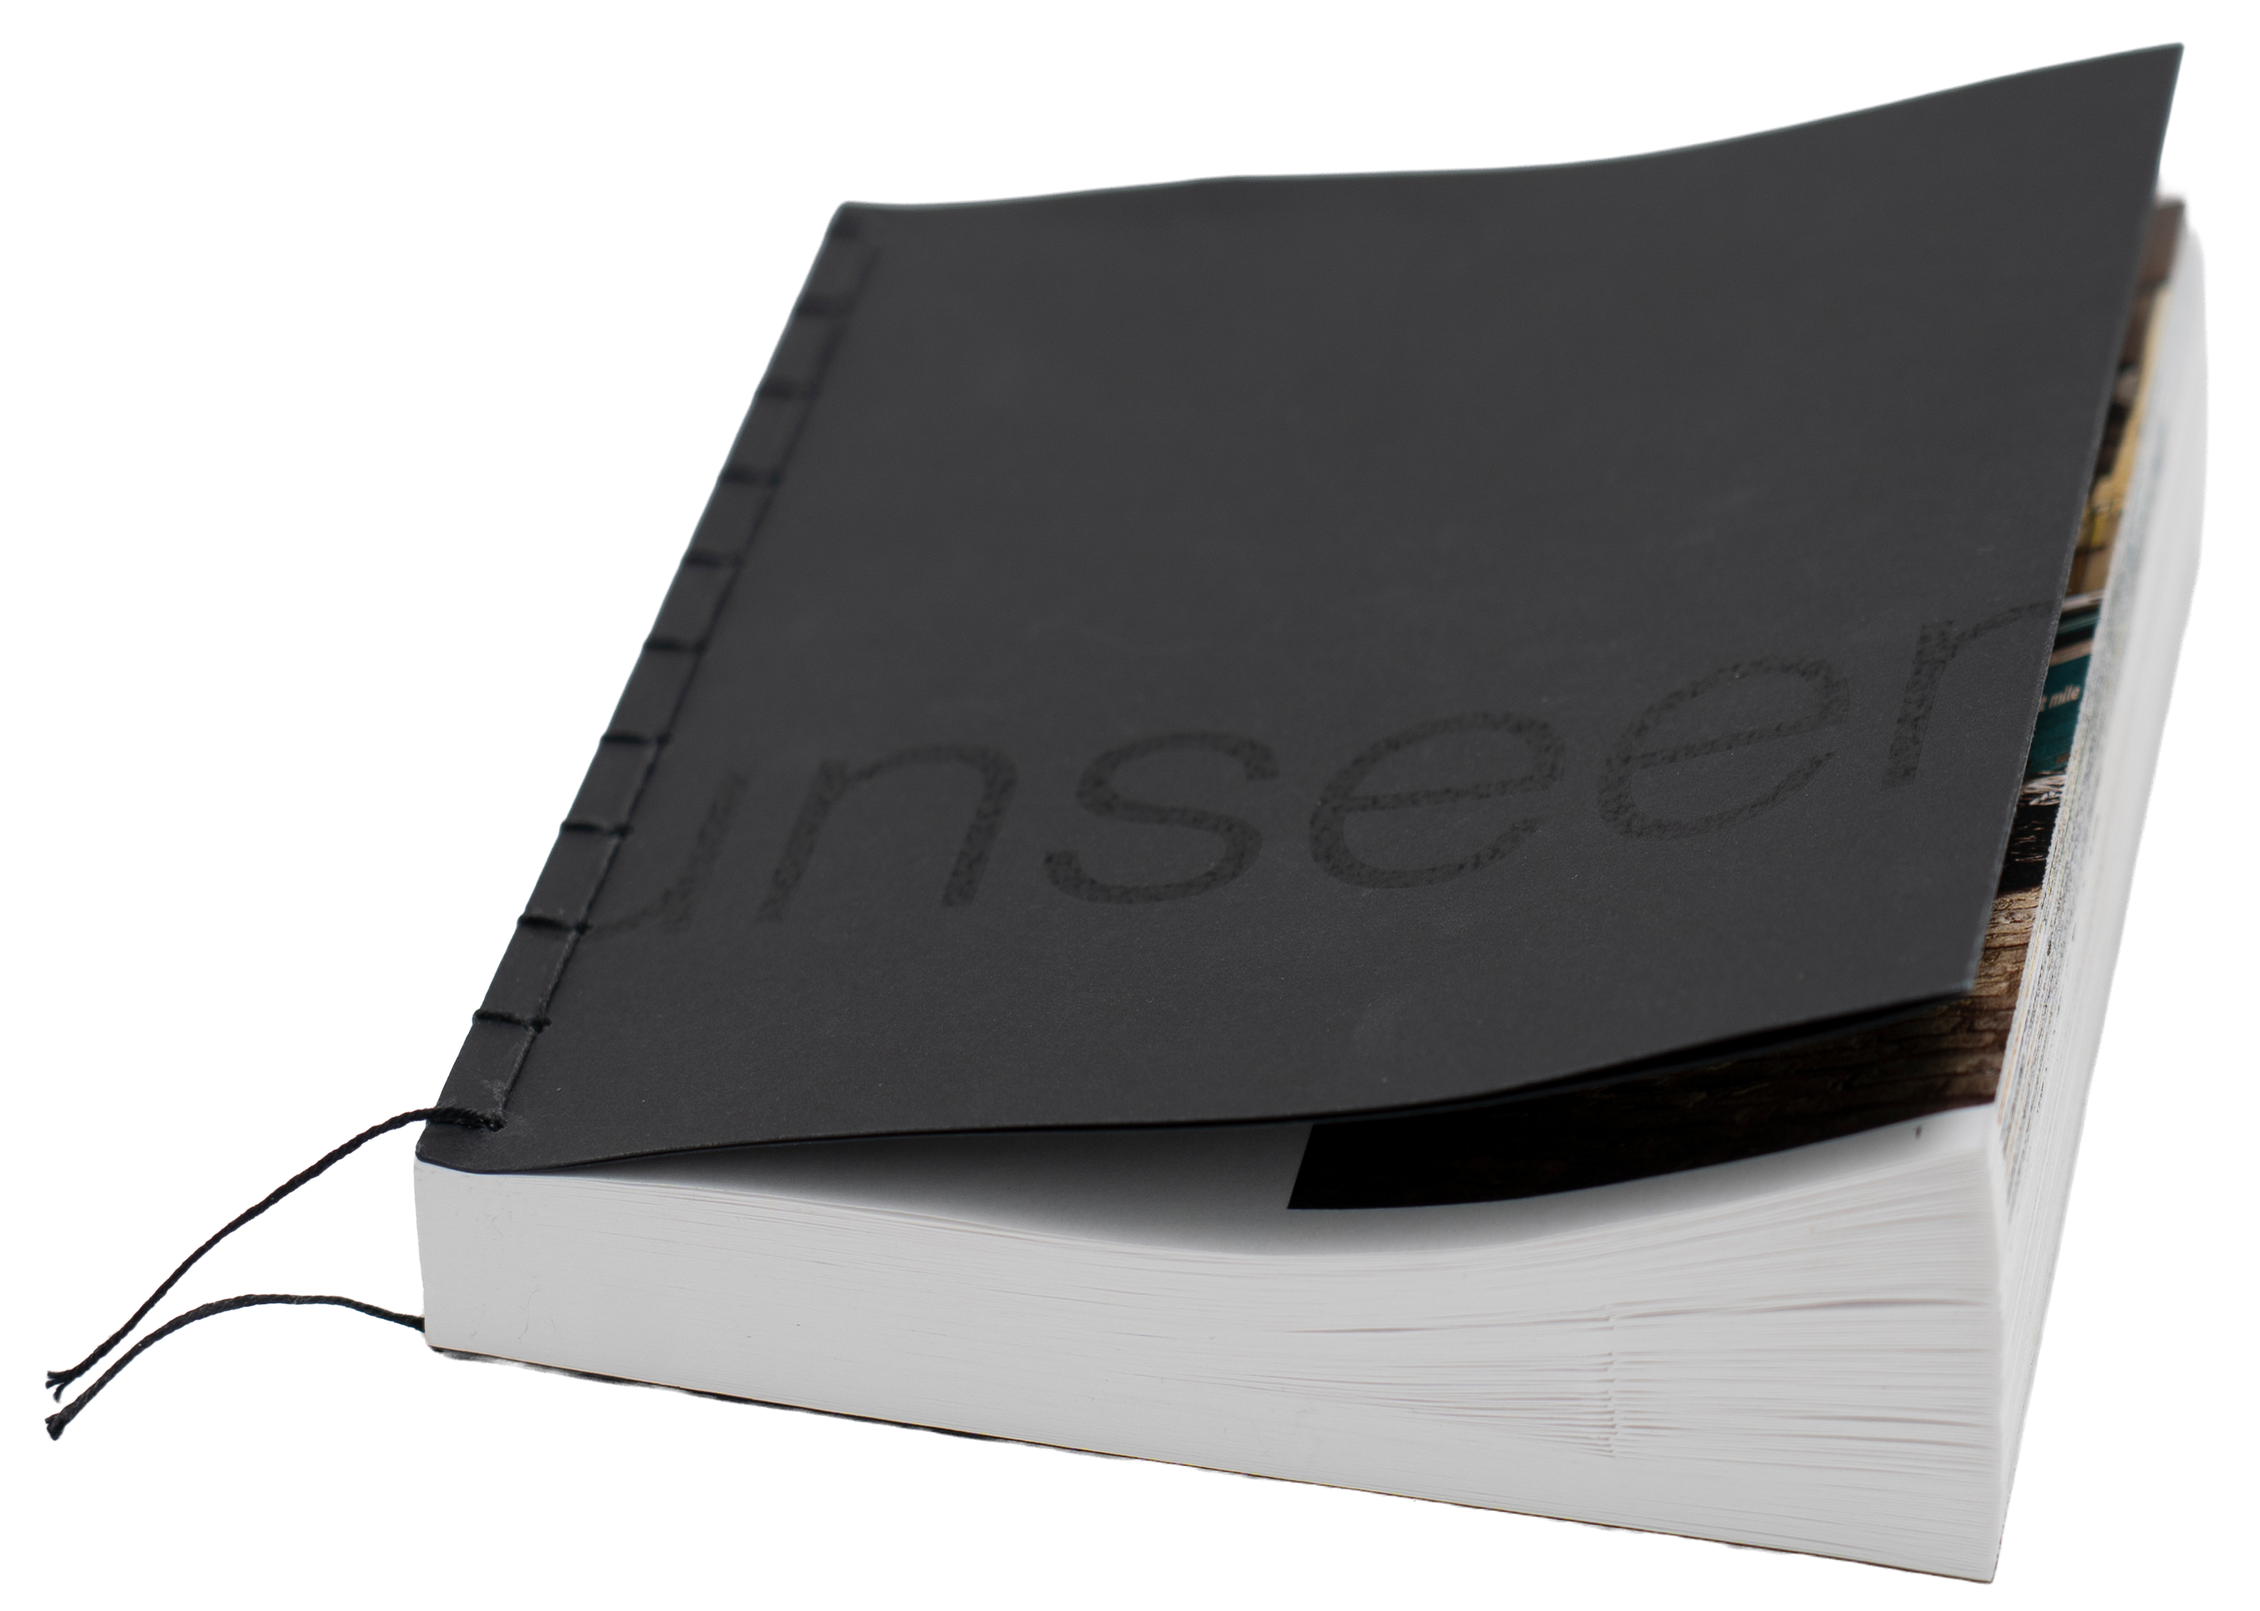
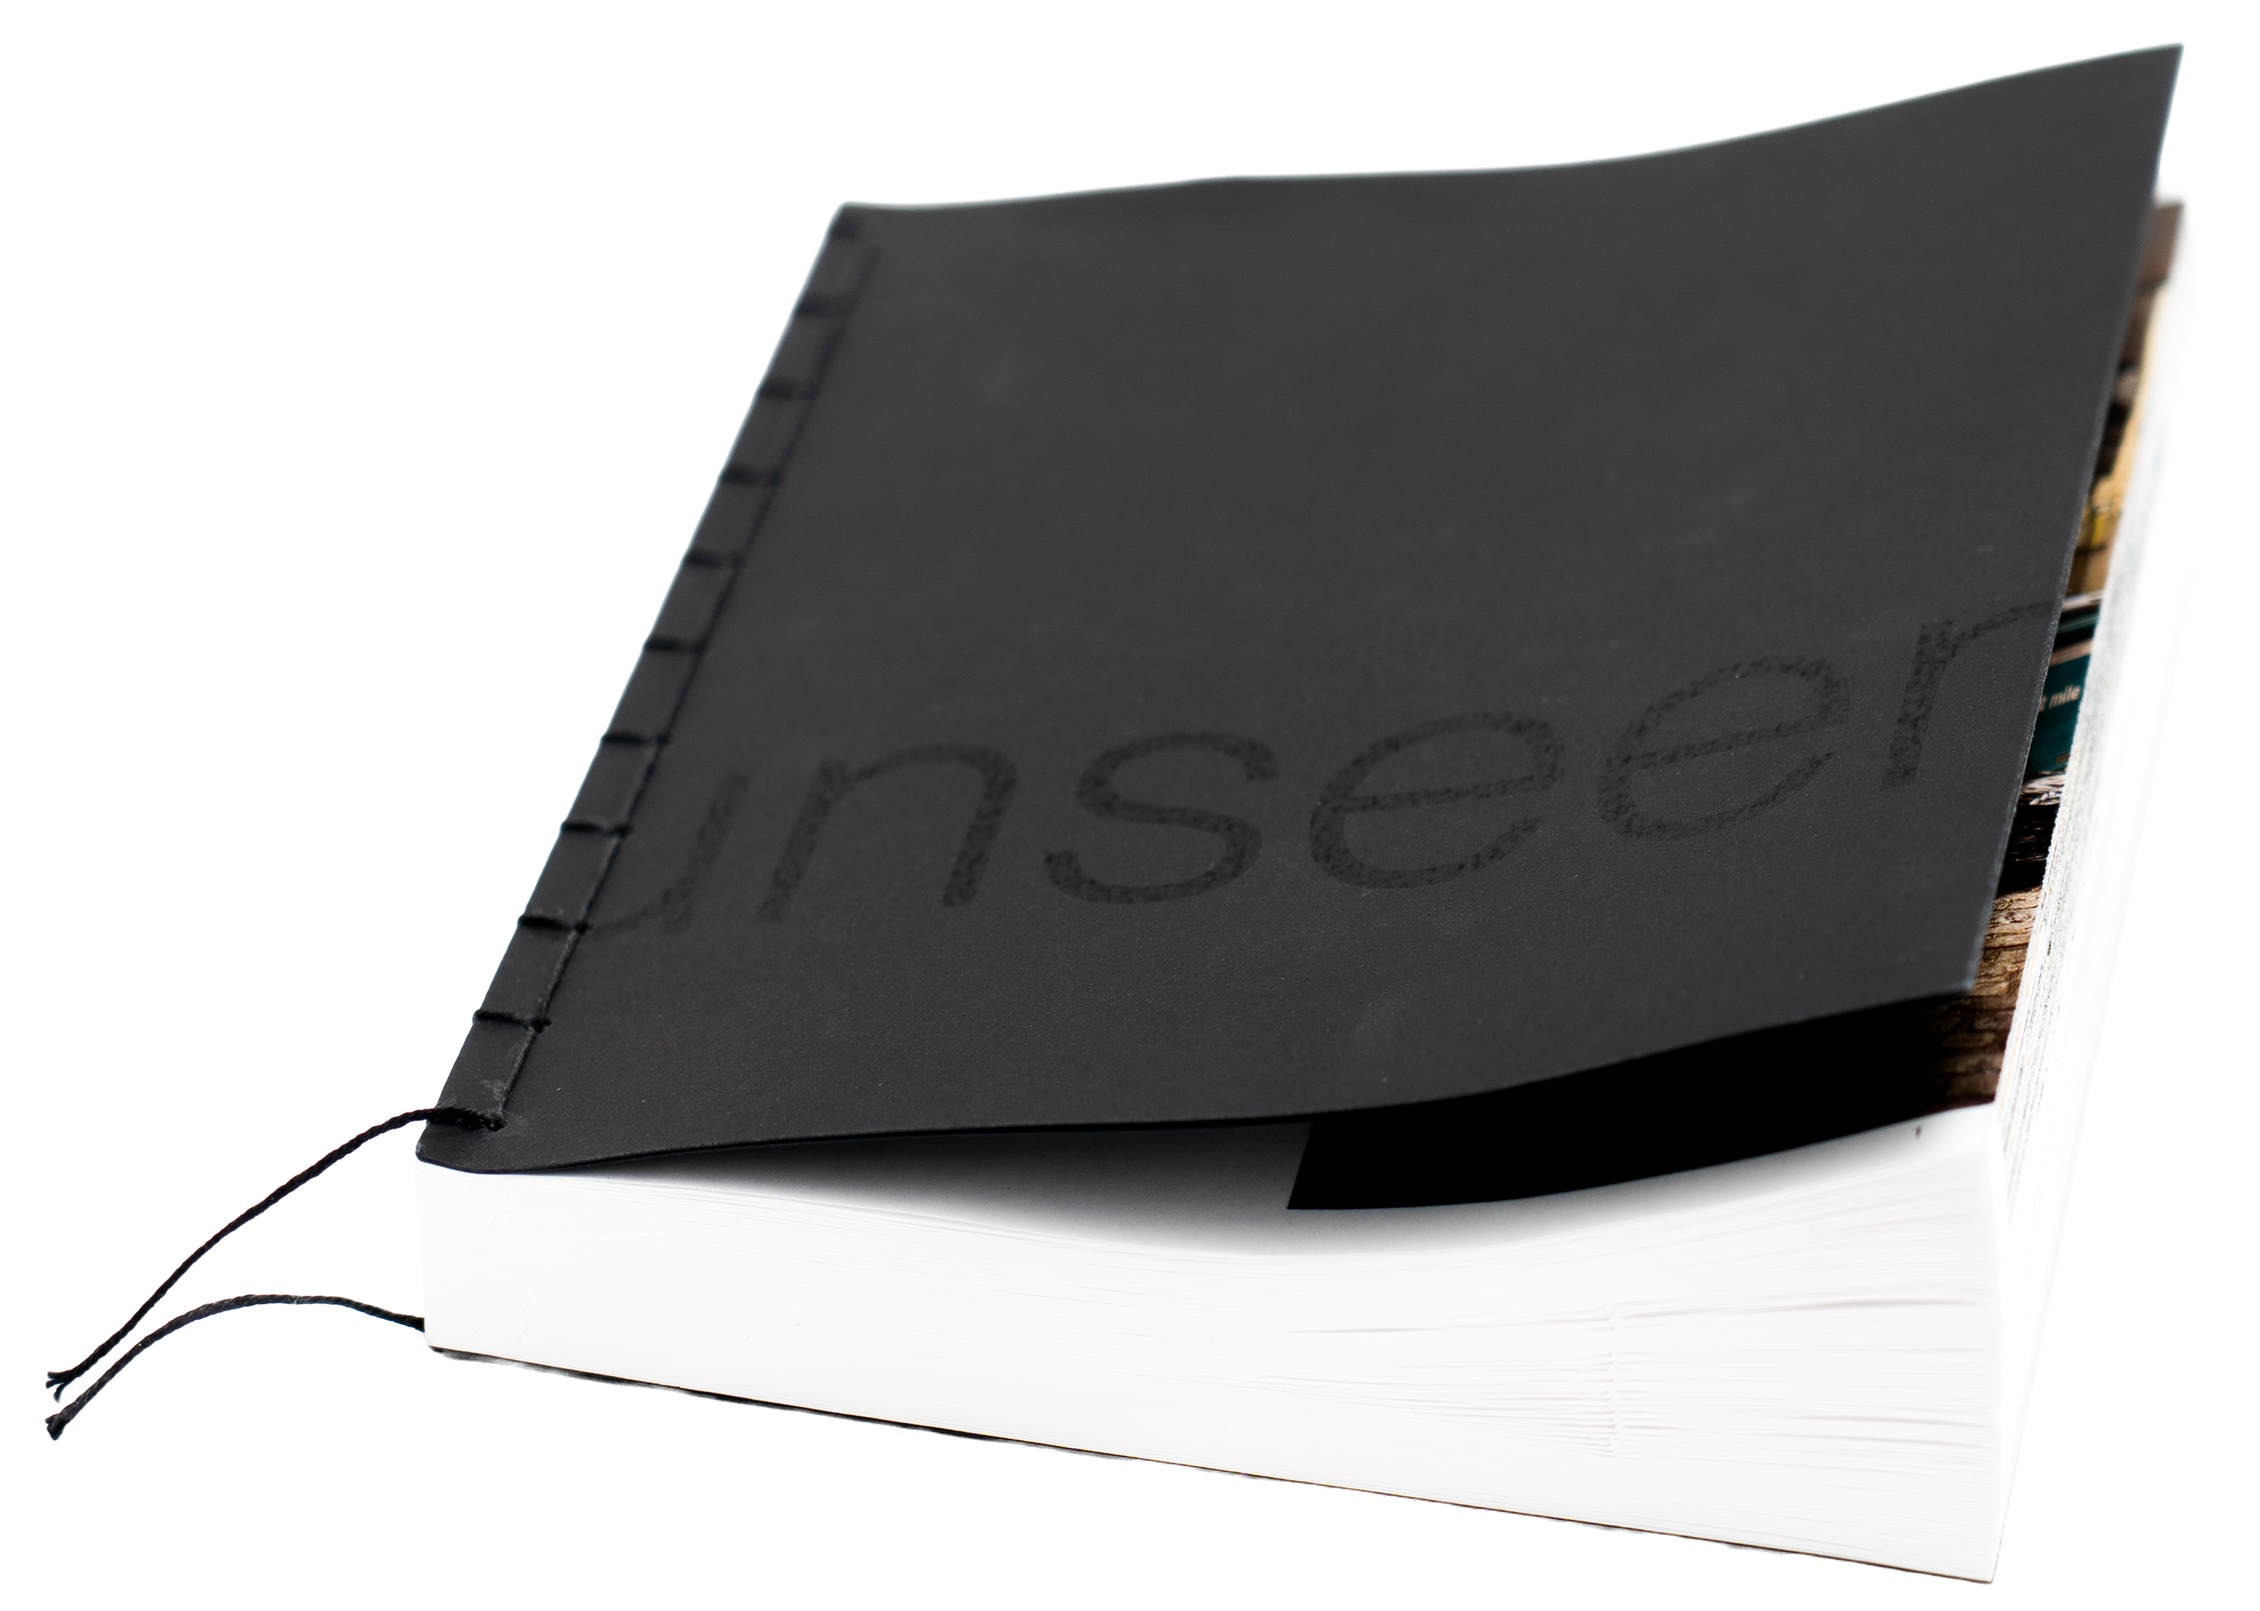
7.12

Changed region(s): [[0.1559, 0.0931, 0.998, 0.9928], [0.3743, 0.1241, 0.4366, 0.1551]]

diff --git a/css/style.css b/css/style.css
@@ -117,10 +117,10 @@ body {
     transform: scale(1.05);
 }
 .projekte__projekt--CPdesign2 {
-    width: calc(146.16 / 4000 * 100%);
-    height: calc(163.85 / 2700 * 100%);
-    left: calc(2475.86 / 4000 * 100%);
-    top: calc(736.87 / 2700 * 100%);
+    width: calc(149 / 4000 * 100%);
+    height: calc(178 / 2700 * 100%);
+    left: calc(2474 / 4000 * 100%);
+    top: calc(766 / 2700 * 100%);
     transition: transform 0.2s ease-out;
 }
 .projekte__projekt--CPdesign2:hover{
@@ -322,7 +322,7 @@ body {
    portrait
 ======================================= */
 .projekte__projekt--zuzu{
-    width: calc(160 / 4000 * 100%);
+    width: calc(169 / 4000 * 100%);
     height: calc(240 / 2700 * 100%);
     left: calc(2163 / 4000 * 100%);
     top: calc(678 / 2700 * 100%);
@@ -1237,6 +1237,7 @@ body {
     .projektraster__me-bild1{
         grid-column: 4 / 16;
         grid-row: 4 / 5;
+        margin-bottom: 20px;
     }
 
 /* =======================================
@@ -1390,8 +1391,8 @@ body {
     .projektraster__typo-text1,
     .projektraster__foto-text1,
     .projektraster__foto-text2,
-    .projektraster__foto-text3
-    .projektraster__CP-text1
+    .projektraster__foto-text3,
+    .projektraster__CP-text1,
     .projektraster__me-text1{
         grid-column: 4 / 16 !important; 
         margin-bottom: 20px;
@@ -1422,7 +1423,6 @@ body {
 
 
 footer {
-    
     position: fixed;  
     bottom: 0; 
     right: 0; 

diff --git a/index.html b/index.html
@@ -9,7 +9,7 @@
     <title>zoes portfolio</title>
     <meta
       name="description"
-      content="..."
+      content="Graphic design, photography, and visual concepts"
     />
   </head>
 
@@ -125,7 +125,7 @@
 
       <div class="projekte__projekt projekte__projekt--zuzu">
         <a href="zuzu/aboutme.html">
-            <img src="img2/zuzu  Kopie.webp">
+            <img src="img2/zoe.webp">
         </a>
       </div>
 

diff --git a/Tech.Illu/illu.html b/Tech.Illu/illu.html
@@ -12,7 +12,7 @@
     <title>zoes portfolio</title>
     <meta
       name="description"
-      content="..."
+      content="Illustration, Font-Design"
     />
   </head>
 

diff --git a/Zitrone/Farbe.html b/Zitrone/Farbe.html
@@ -12,7 +12,7 @@
     <title>zoes portfolio</title>
     <meta
       name="description"
-      content="..."
+      content="Visual perception"
     />
   </head>
 

diff --git a/Postkarte/postkarten.html b/Postkarte/postkarten.html
@@ -12,7 +12,7 @@
     <title>zoes portfolio</title>
     <meta
       name="description"
-      content="..."
+      content="Prepress project"
     />
   </head>
 

diff --git a/Corperate Design/CPdesign.html b/Corperate Design/CPdesign.html
@@ -12,7 +12,7 @@
     <title>zoes portfolio</title>
     <meta
       name="description"
-      content="..."
+      content="CorperateDesign"
     />
   </head>
 

diff --git a/Motion-graphics/motion.html b/Motion-graphics/motion.html
@@ -12,7 +12,7 @@
     <title>zoes portfolio</title>
     <meta
       name="description"
-      content="..."
+      content="Motion graphics"
     />
   </head>
 

diff --git a/London/London.html b/London/London.html
@@ -12,7 +12,7 @@
     <title>zoes portfolio</title>
     <meta
       name="description"
-      content="..."
+      content="London project"
     />
   </head>
 

diff --git a/Typo/typo.html b/Typo/typo.html
@@ -12,7 +12,7 @@
     <title>zoes portfolio</title>
     <meta
       name="description"
-      content="..."
+      content="3D typography"
     />
   </head>
 

diff --git a/Blickwechsel/Blickwechselplakat.html b/Blickwechsel/Blickwechselplakat.html
@@ -12,7 +12,7 @@
     <title>zoes portfolio</title>
     <meta
       name="description"
-      content="..."
+      content="Posterdesign"
     />
   </head>
 

diff --git a/MAK/MAK.html b/MAK/MAK.html
@@ -12,7 +12,7 @@
     <title>zoes portfolio</title>
     <meta
       name="description"
-      content="..."
+      content="Posterdesign"
     />
   </head>
 

diff --git a/Fotografie/fotografie.html b/Fotografie/fotografie.html
@@ -12,7 +12,7 @@
     <title>zoes portfolio</title>
     <meta
       name="description"
-      content="..."
+      content="Photography"
     />
   </head>
 
